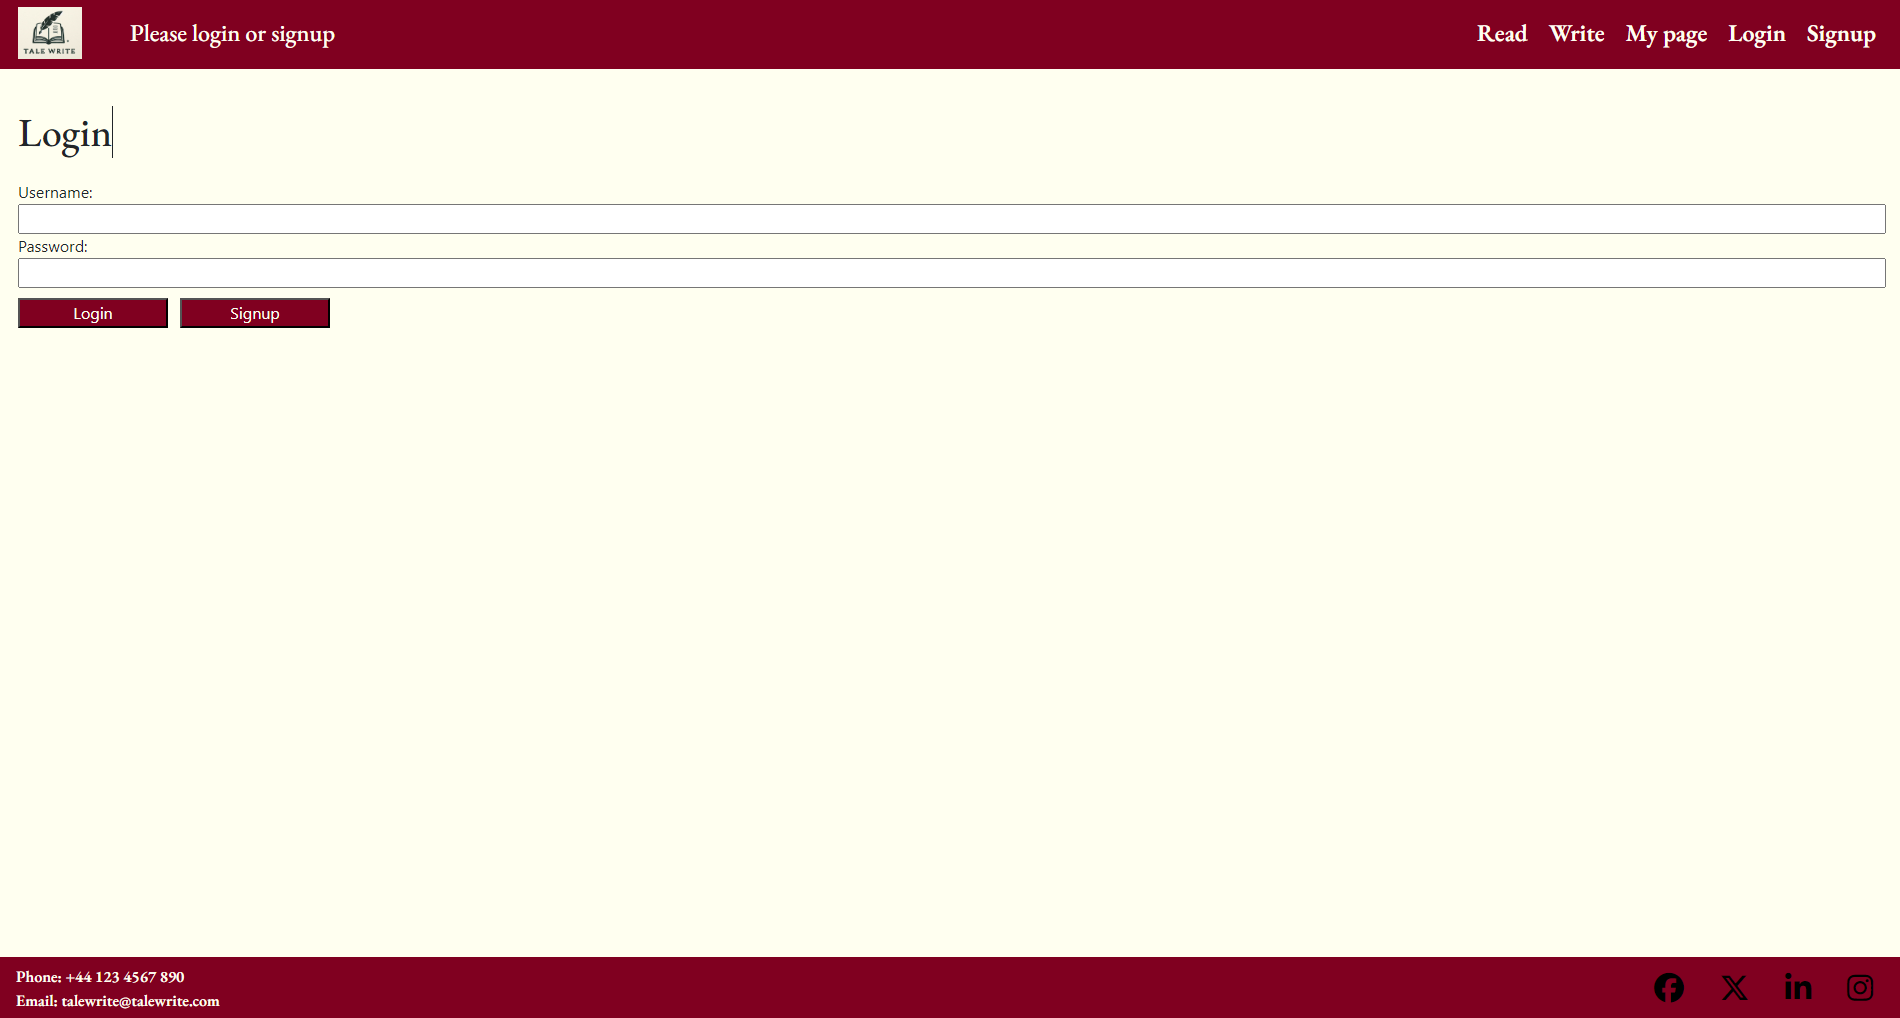
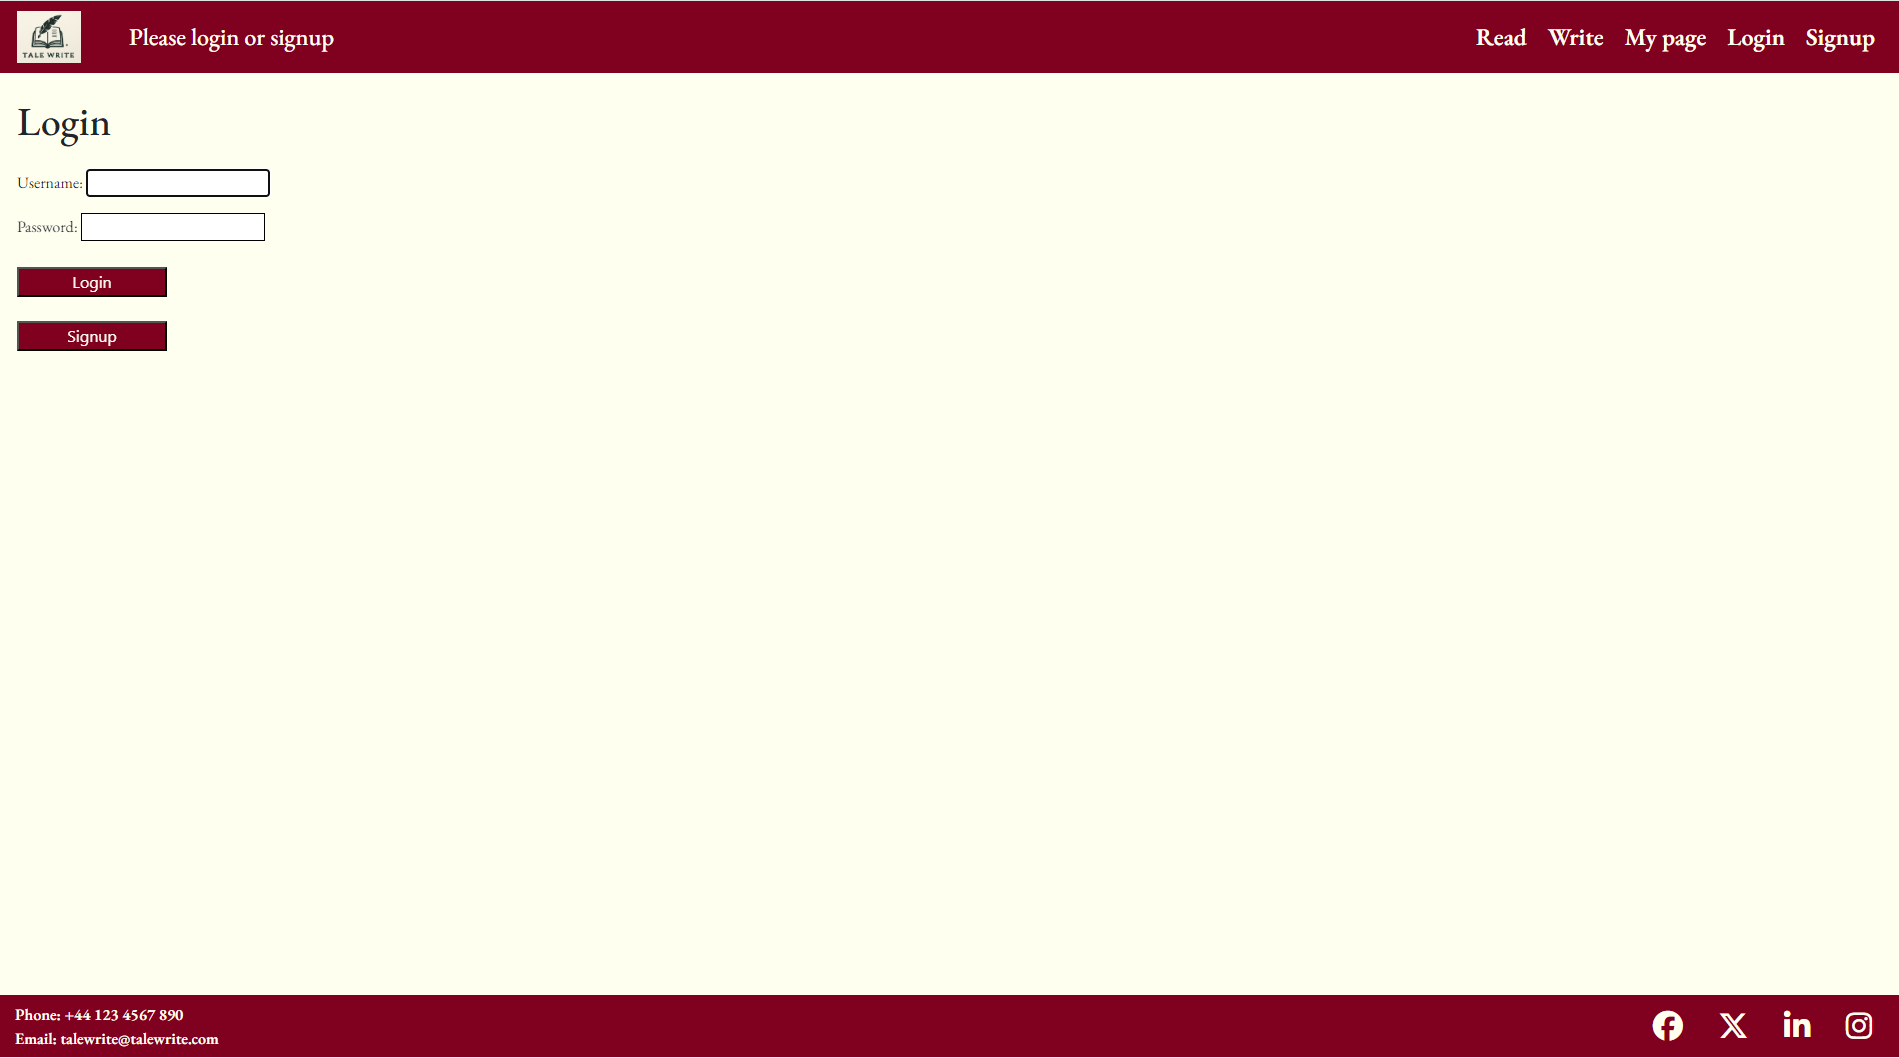
like button styled white and readme images updated to include new styling. Also added 'support required?' to sign up and login page

diff --git a/entries/templates/entry_detail.html b/entries/templates/entry_detail.html
@@ -46,7 +46,7 @@
     <form action=" {% url 'entries:like_entry' slug=entry.slug %}" method="POST" id="like" class="smicon">
         {%csrf_token %}
         <button type="submit" class="btn btn-primary btn-md submitbuttons"><i class="fa-solid fa-thumbs-up fa-md"
-                style="color: #000000;"></i>
+                style="color: rgb(255, 255, 240);"></i>
             <span class="smicon" id="likecount">{{entry.likes}}</span></button>
     </form>
     {% endif %}

diff --git a/static/css/style.css b/static/css/style.css
@@ -114,7 +114,7 @@ a.entry-title:hover {
 
 .smicon {
     border-color: RGB(128, 0, 32) !important;
-    color: black;
+    color: white;
 }
 
 .submit {
@@ -696,4 +696,12 @@ label[for="id_slug"] {
 
 span.helptext {
     display: none;
+}
+
+form>#likecount.smicon {
+    color: RGB(255, 255, 240);
+}
+
+.fa-thumbs-up {
+    color: white !important;
 }

diff --git a/staticfiles/css/style.css b/staticfiles/css/style.css
@@ -114,7 +114,7 @@ a.entry-title:hover {
 
 .smicon {
     border-color: RGB(128, 0, 32) !important;
-    color: black;
+    color: RGB(255, 255, 240);
 }
 
 .submit {
@@ -696,4 +696,8 @@ label[for="id_slug"] {
 
 span.helptext {
     display: none;
+}
+
+form>#likecount.smicon {
+    color: RGB(255, 255, 240);
 }

diff --git a/accounts/templates/signup.html b/accounts/templates/signup.html
@@ -7,5 +7,9 @@
     {% csrf_token %}
     {{form.as_p}}
     <input type="submit" value="Signup" class="loginbutton submit">
+
 </form>
+<br>
+<br>
+<p>Need support? Please email talewrite@talewrite.com</p>
 {% endblock %}

diff --git a/accounts/templates/login.html b/accounts/templates/login.html
@@ -22,6 +22,9 @@
         <input type="submit" value="Signup" class="loginbutton submit">
     </form>
 </div>
+<br>
+<br>
+<p class>Need support? Please email talewrite@talewrite.com</p>
 
 
 {% endblock %}

diff --git a/entries/views.py b/entries/views.py
@@ -15,10 +15,8 @@ from entries.models import Genre
 from django.db.models import Q
 
 
-
 def landing_page(request):
     return render(request, 'landing_page.html')
-
 
 
 @login_required(login_url="/accounts/login")

diff --git a/README.md b/README.md
@@ -12,32 +12,19 @@ There is also the option to visit "my page" which allows users to see and edit t
 
 Please be aware that in following ReadME, "entry" is synonymous with "tale".
 
+## Landing page
 
-## Home/Read/Entries list page (for first time users) 
-
-<img src="static/images/homeplslogin.png" alt="Home page with list of published tales with message requesting they log in or sign up">
-
-The landing page of the website allows users to see the TaleWrite logo for brand visibility, and a list of published tales, including a short excerpt, genre, author, and the time and date the tale was published on. 
-
-The search bar allows users to search for specific tales, author, or entries of a particular genre.
-
-If the user attempts to read a tale without logging in they will be redirected to the login page.
-
-The header and footer are consistant across all pages and incluide social media links, and email and phone on large devices.
-
-## Read page (home and landing page for returning users) 
-
-<img src="staticfiles/images/homeloggedin.png" alt="Home page with list of published tales with message but without the message requesting they log in or sign up and with Logout as an option.">
+<img src="static/images/landingpage.png" alt="Short introductory text and large brand logo">
 
 <br>
 
-Home page with list of published tales with message but without the message requesting they log in or sign up and with Logout as an option.
+A short introduction to the site explaining its concept and displaying the brand logo.
 
 <br>
 
 ## Sign up
 
-<img src="staticfiles/images/signup.png" alt="Sign up page showing username, password, password confirmation, and email input fields">
+<img src="staticfiles/images/signupone.png" alt="Sign up page showing username, password, password confirmation, and email input fields">
 
 <br>
 
@@ -55,20 +42,43 @@ Login page showing username and password input fields
 
 <br>
 
+## Entries list / Read page (logged out)
+
+<img src="static/images/read.png" alt="List of published tales with message requesting they log in or sign up. Also displays a search bar">
+
+The entries_list / "read" page displays a list of published tales, and a short excerpt, genre, author, and the time and date the tale was published on. 
+
+The search bar allows users to search for specific tales, author, or entries of a particular genre.
+
+If the user attempts to read a tale without logging in they will be redirected to the login page.
+
+The header and footer are consistant across all pages and include social media links, except for the addition of company email and phone number on medium and larger devices.
+
+<br>
+
+## Entries list / Read page (logged in) 
+
+<img src="staticfiles/images/entrylistloggedin.png" alt="List of published tales with message but without the message requesting they log in or sign up and with Logout as an option.">
+
+<br>
+List of published tales with message but without the message requesting they log in or sign up and with Logout as an option.
+
+<br>
+
 ## My page
 
 <img src="staticfiles/images/mypage.png" alt="Write page showing write form">
 
 <br>
 
-My page presents users with all their own entries, which includes entries with the status of "draft". This allows users to continue working on their tales without public scrutiny, until they are ready to publish them to the entries list home page.
+My page presents users with all their own entries, which includes entries with the status of "draft". This allows users to continue working on their tales without public scrutiny, until they are ready to publish them to the entries list home page. They can also search their own entries for specific titles or by genre.
 
 <br>
 
 ## Write
  
 
-<img src="static/images/write.png" alt="Write page showing write form with title, content, excerpt, genre fields and submit button">
+<img src="staticfiles/images/write1.png" alt="Write page showing write form with title, content, excerpt, genre fields and submit button">
 
 <br>
 
@@ -76,37 +86,43 @@ Write page showing form with title, content, excerpt, and genre fields, with sub
 
 <br>
 
-## Published tale, readers POV
+## Published tale, Author's POV. Delete, edit, and comments displayed.
 
-<img src="static/images/entrycomment.png" alt="Tale content with comments section and banner showing comment awaiting approval and like button">
-
-<br>
-
-Tale content with comments section, like button, and banner messages showing recently submitted comment is awaiting approval
+<img src="static/images/commentawaiting.png" alt="Tale content with comments section and banner showing comment awaiting approval and like button">
 
 <br>
 
-## Read tale: Author's POV
-
-
-
-<img src="staticfiles/images/taleauthor.png" alt="a Read:Tale page showing an edit and delete button and comments section.">
+Tale content with comments section, edit, and delete button. Banner messages showing recently submitted comment is awaiting approval. 
 
 <br>
-This page shows a published tale from the author's point of view. It allows the author access to a delete and an edit button.
+
+## Read tale: Reader's POV
+
+
+
+<img src="staticfiles/images/like.png" alt="The same Tale page as above showing that delete and edit button are hidden but like button present. Also cannot see comment that has yet to be approved.">
+
+<br>
+This page shows a published tale from a reader's (who is not the author) point of view. It allows the author access to a "like button" but not edit and delete. You also can't see the comment that has yet to be approved.
 
 <br>
 
 ## Edit tale
 
 
-<img src="static/images/edit.png" alt="Image showing all the same fields as the write page but with them prepopulated with the entry's information that was previously submitted">
+<img src="static/images/edit1.png" alt="Image showing all the same fields as the write page but with them prepopulated with the entry's information that was previously submitted">
 
 <br>
 
+## Tale successfully edited
+
+<img src="staticfiles/images/editsuccess.png" alt="Banner message saying 'entry deleted successfully' and you have been redirected to the home page">
+
+This shows the delete function having been used which then displays an "entry edited successfully" message, and that you have been redirected to the homepage.
+
 ## Delete "are you sure?"
 
-<img src="static/images/delete.png" alt="Image showing popout asking 'are you sure you want to delete this tale?'">
+<img src="staticfiles/images/delete1.png" alt="Image showing popout asking 'are you sure you want to delete this tale?'">
 
 <br>
 
@@ -116,7 +132,7 @@ This shows the delete button having been clicked confirming with the user "are y
 
 ## Delete confirmed
 
-<img src="static/images/deleteredirect.png" alt="Banner message saying 'entry deleted successfully' and you have been redirected to the home page">
+<img src="staticfiles/images/deleteconfirmed1.png" alt="Banner message saying 'entry deleted successfully' and you have been redirected to the home page">
 
 <br>
 
@@ -457,7 +473,7 @@ Adding email to signup page and removing helptext https://stackoverflow.com/ques
 
 Publish and edit timestamp https://www.youtube.com/watch?v=FpbJBzpoISY&t=32s
 
-ChatGPT for the tales I uploaded to showcase the sites functionality, and providing guidance if I encountered issues I did not grasp. https://chat.openai.com/c/7e591bc4-1e83-46d8-b823-029eaf780f66
+ChatGPT for the tales I uploaded to showcase the sites functionality, landing page introductory text, and providing guidance if I encountered issues I did not grasp. https://chat.openai.com/c/7e591bc4-1e83-46d8-b823-029eaf780f66
 
 Header and footer based on a website I co-coded on a group hackathon https://tomcow88.github.io/teamBrizzle/
 
